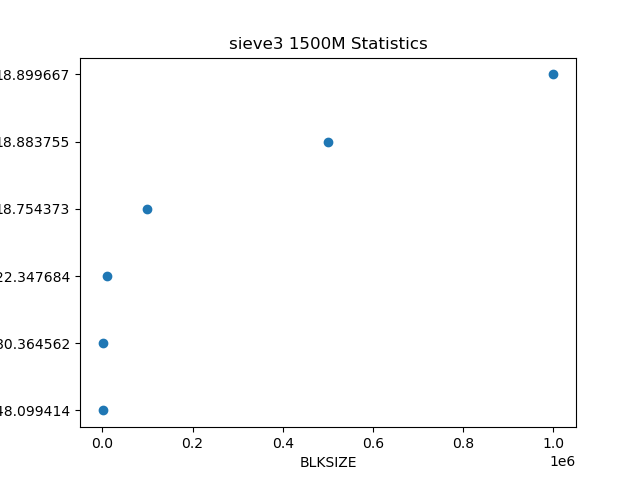
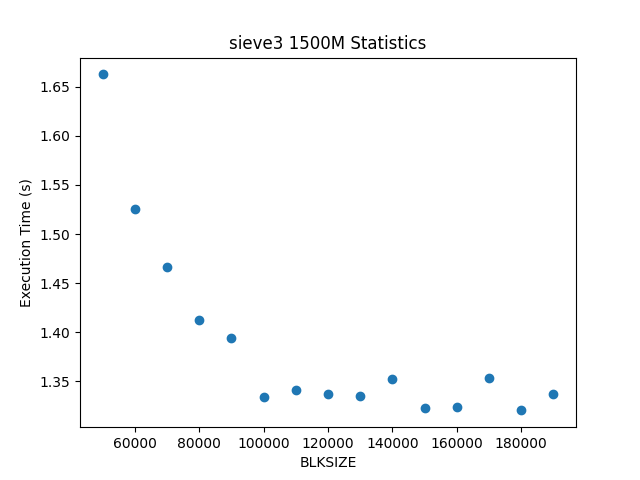
updated blksize script

diff --git a/assignments/utils/optimize_blksize.py b/assignments/utils/optimize_blksize.py
@@ -54,16 +54,21 @@ def collect_data(program, sizes):
     for threads in range(1, 9):
         print("Threads:", threads)
         os.environ['OMP_NUM_THREADS'] = str(threads)
-        for size in sizes:
-            results = []
-            for i in range(0, 8): 
-                output = subprocess.run([program['program_name']] + str(size).split(), capture_output=True).stdout.decode('utf-8')
-                result = re.search('(?<=' + program['time_token'] + ').\S*', output).group(0).strip()
-                print((threads, size, result))
-                results.append(float(result))
-            results.remove(max(results))
-            results.remove(min(results))
-            mean = sum(results)/len(results)
+        for problem_size in sizes:
+            print("Problem size:", problem_size)
+            for blksize in BLK:
+                print("Block size:", blksize)
+                results = []
+                for i in range(0, 8): 
+                    output = subprocess.run([program['program_name']] + [str(problem_size), str(blksize)], capture_output=True).stdout.decode('utf-8')
+                    print("result: ", output)
+                    result = re.search('(?<=' + time_token + ').\S*', output).group(0).strip()
+                    print(result)
+                    results.append(float(result))
+                results.remove(max(results))
+                results.remove(min(results))
+                mean = sum(results)/len(results)
+                problem_size_means.append((problem_size, blksize, mean))
             thread_means.append((threads, size, mean))
     return thread_means 
 
@@ -98,7 +103,7 @@ def calculate_speedup(baseline_mean, test_times):
         speedup_list.append((datum[0], datum[1], speedup))
     return speedup_list
 
-BLK = [10, 100, 1000, 10000, 100000]
+BLK = [i for i in range(50000, 200000, 10000)]
 #sizes = [500000 , 1000000, 1500000]
 sizes = [500000000, 1000000000, 1500000000] #500mil, 1bil, 1.5bil
 

diff --git a/assignments/3/sieve3.c b/assignments/3/sieve3.c
@@ -19,15 +19,14 @@
 int FMIB(long index, long prime) {
     int result = index;
 
-    if (index == prime)
+    if (index == prime) {
         result += 2 * prime;
-
-    else {
+        return result;
+    } else {
         long remainder = index % prime;
         if (remainder != 0) 
             result = index - remainder + prime;
     }
-
     if (result % 2 == 0)
         result += prime;
 
@@ -37,7 +36,7 @@ int FMIB(long index, long prime) {
 int main(int argc, char **argv) {
 
    long N  = 100;
-   long BLKSIZE = 100000;
+   long BLKSIZE = 200000;
 
    char *mark;
 
@@ -101,9 +100,9 @@ int main(int argc, char **argv) {
    count = 1;                       // Count starts from 1 to account for  2
    for(i = 3; i <= sqrt_N; i+=2){   // i starts from 3 as we only count odds
         if(mark[i/2] == 0) {
-            primes[count] = i;
+            primes[count++] = i;
             //printf("primes[%d] = %d\n", count, i);
-            count++;
+            //count++;
         }
    }
 
@@ -115,7 +114,7 @@ int main(int argc, char **argv) {
         for (int j = 1; j < count; j++) {  // skip primes[0] because that's evens
             //printf("prime: %ld\n", primes[j]);
            prime = primes[j];
-           // printf("FMIB(%d, %ld) = %ld, i = %ld\n", ii, prime, FMIB(ii, prime));
+           //printf("FMIB(%d, %ld) = %ld\n", ii, prime, FMIB(ii, prime));
            for (long i = FMIB(ii, prime); i <= minn(ii+BLKSIZE, p_size); i += 2*prime) {
                //printf("mark[%ld] = 1\n", i/2); 
                mark[i/2] = 1;

diff --git a/assignments/3/sieve4.c b/assignments/3/sieve4.c
@@ -19,15 +19,14 @@
 int FMIB(long index, long prime) {
     int result = index;
 
-    if (index == prime)
+    if (index == prime) {
         result = index + 2 * prime;
-
-    else {
+        return result;
+    } else {
         long remainder = index % prime;
         if (remainder != 0) 
             result = index - remainder + prime;
     }
-
     if (result % 2 == 0)
         result += prime;
 
@@ -86,6 +85,7 @@ int main(int argc, char **argv) {
         // We stride by 2*k because odd + odd = even
         // And odd + even = odd, thereby skipping all even multiples
         // All primes are odd aside from 2
+        #pragma omp parallel for
         for (long prime = k*k; prime <= sqrt_N; prime += 2*k) mark[prime/2] = 1;
         
         // Get next odd prime (unmarked value)
@@ -100,14 +100,14 @@ int main(int argc, char **argv) {
    count = 1;                       // Count starts from 1 to account for  2
    for(i = 3; i <= sqrt_N; i+=2){   // i starts from 3 as we only count odds
         if(mark[i/2] == 0) {
-            primes[count] = i;
+            primes[count++] = i;
             //printf("primes[%d] = %d\n", count, i);
-            count++;
         }
    }
 
 
    /* end of preamble */
+
    #pragma omp parallel for
    for (int ii = sqrt_N; ii < p_size; ii += BLKSIZE) {
         //printf("block start: %d, end: %d\n", ii, ii+BLKSIZE);  
